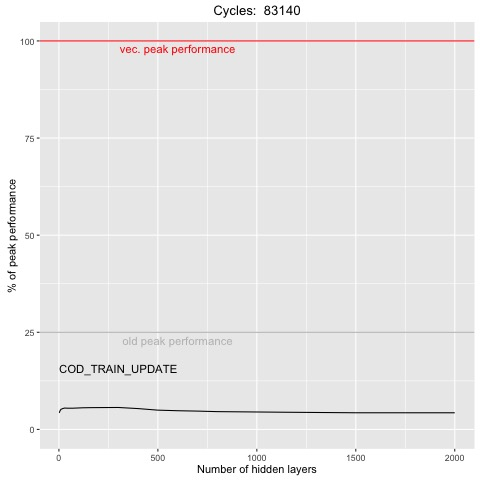
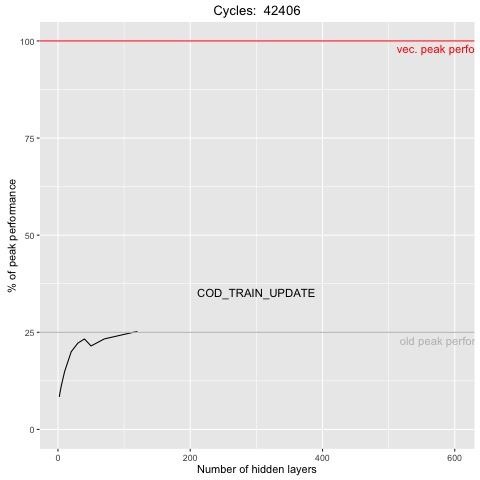
vector merged

diff --git a/rbm_final_Utrans/vector/merged/rbm.h b/rbm_final_Utrans/vector/merged/rbm.h
@@ -54,7 +54,7 @@ int * x0;
 
 
 double energy_for_all();
-void gibbs_H(int y0);
+void gibbs_H(int y0, double * x0);
 int gibbs_Y_();
 void gibbs_X_(int * x);
 
@@ -517,7 +517,7 @@ void COD_training_update(int yi, int * xi, double * h0_cap,
     myInt64 start;
     start = start_tsc();
 #endif
-    gibbs_H(y0);
+    gibbs_H(y0, x0d);
 #ifdef PERF_GIBBS_H
     myInt64 cycles = stop_tsc(start);
     count = count + 1;
@@ -764,25 +764,55 @@ double energy_for_all()
  Gibbs samplings for H (hidden nodes)
  Modifies h0 gibbs_H(h0, y0, x0);
  */
-void gibbs_H(int y0)
+void gibbs_H(int y0, double * x0)
 {
-    for (int j = 0; j < n; j++)
+    double sum, s1, s2, s3, s4;
+    __m256d w1, w2, w3, w4;
+    __m256d x1, x2, x3, x4;
+    double sum2[4];
+    
+    for (int i = 0; i < n ; i++)
     {
-        double sum = c[j] + U[y0 * n + j];
-        for (int i = 0; i < D; i++)
+        __m256d s1 = {0, 0, 0, 0};
+        __m256d s2 = {0, 0, 0, 0};
+        __m256d s3 = {0, 0, 0, 0};
+        __m256d s4 = {0, 0, 0, 0};
+        int iD = i*D;
+        for (int j = 0; j < D; j+=16)
         {
-            sum = sum + W[j * D + i] * x0[i];
+            
+            w1 = _mm256_loadu_pd(W + iD + j);
+            w2 = _mm256_loadu_pd(W + iD + j + 4);
+            w3 = _mm256_loadu_pd(W + iD + j + 8);
+            w4 = _mm256_loadu_pd(W + iD + j + 12);
+            
+            x1 = _mm256_loadu_pd(x0 + j );
+            x2 = _mm256_loadu_pd(x0 + j + 4);
+            x3 = _mm256_loadu_pd(x0 + j + 8);
+            x4 = _mm256_loadu_pd(x0 + j + 12);
+            
+            s1 = _mm256_fmadd_pd(w1, x1, s1);
+            s2 = _mm256_fmadd_pd(w2, x2, s2);
+            s3 = _mm256_fmadd_pd(w3, x3, s3);
+            s4 = _mm256_fmadd_pd(w4, x4, s4);
+            
         }
+        s1 = _mm256_add_pd(s1, s2);
+        s3 = _mm256_add_pd(s3, s4);
+        s1 = _mm256_add_pd(s1, s3);
+        
+        _mm256_store_pd(sum2, s1);
+        sum = c[i] + U[y0 * n + i] + sum2[0] + sum2[1] + sum2[2] + sum2[3];
         
         double p = sigmoid(sum);
         double rand = uniform();
         if (rand < p)
         {
-            h0[j] = 1;
+            h0[i] = 1;
         }
         else
         {
-            h0[j] = 0;
+            h0[i] = 0;
         }
     }
 }
